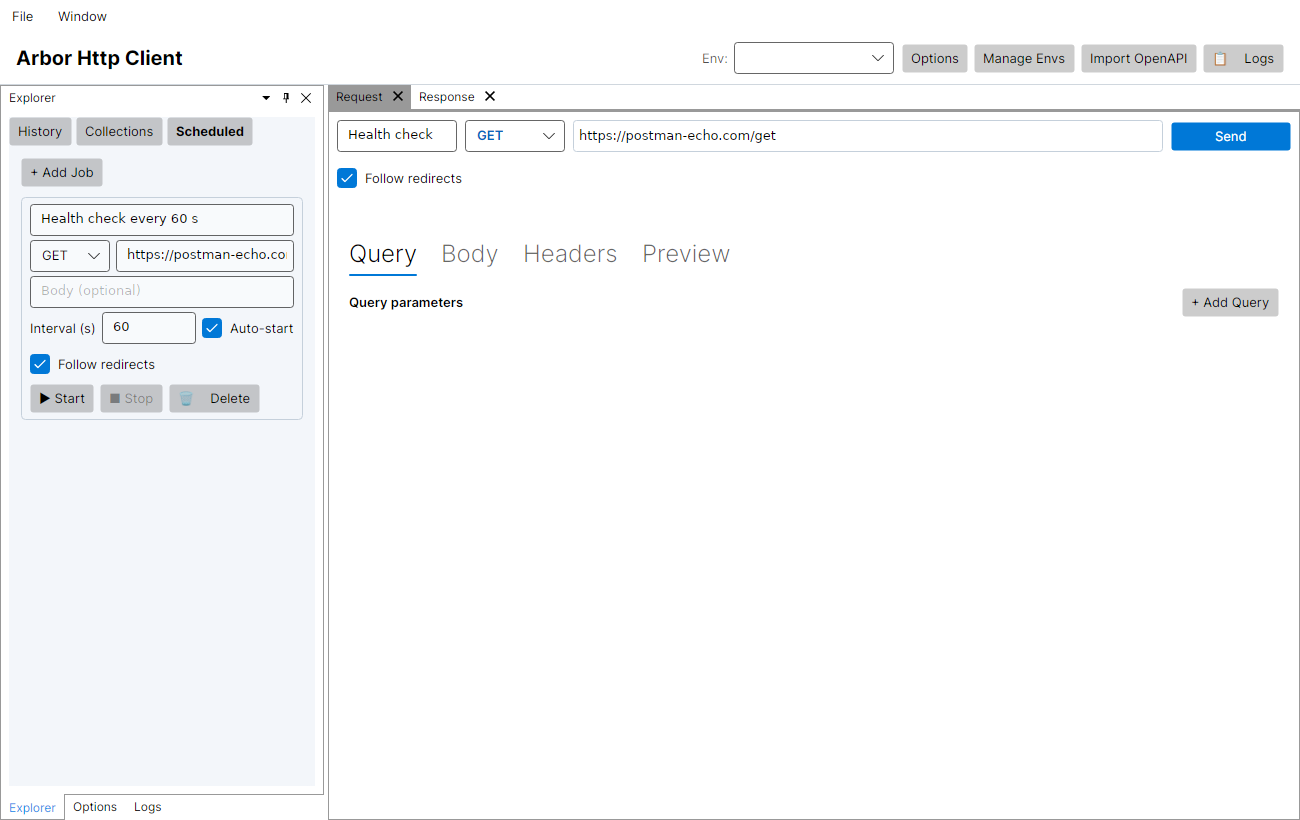
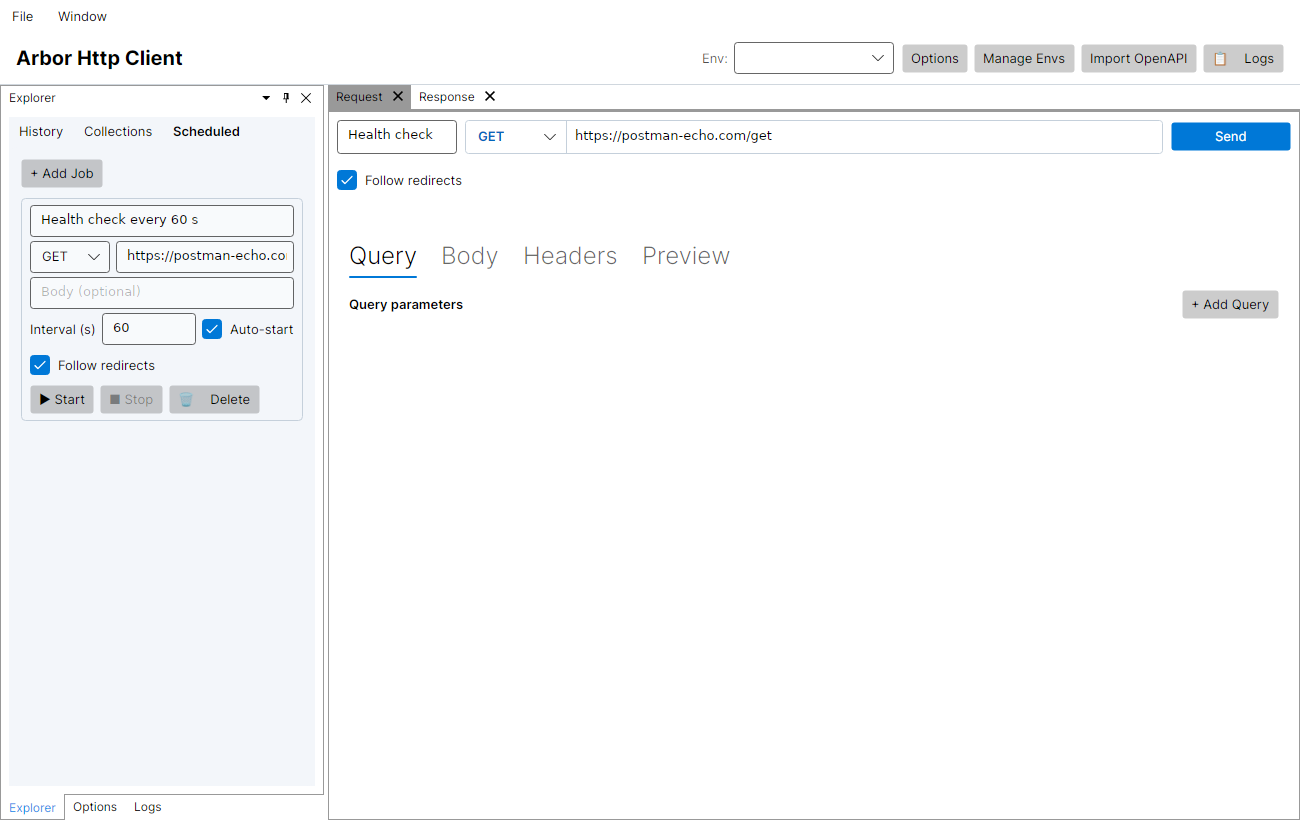
Add unified URL composer, tab-styled left panel, and Copy as cURL
Agent-Logs-Url: https://github.com/niklaslundberg/Arbor.HttpClient/sessions/2c22f1f8-fd90-4e84-97db-15afbf3fa5e5

diff --git a/src/Arbor.HttpClient.Core.Tests/CurlFormatterTests.cs b/src/Arbor.HttpClient.Core.Tests/CurlFormatterTests.cs
@@ -1,0 +1,103 @@
+using Arbor.HttpClient.Core.Models;
+using Arbor.HttpClient.Core.Services;
+using AwesomeAssertions;
+
+namespace Arbor.HttpClient.Core.Tests;
+
+public class CurlFormatterTests
+{
+    [Fact]
+    public void Format_ShouldEmitSimpleGetCurl()
+    {
+        var command = CurlFormatter.Format("GET", "https://example.com/api");
+
+        command.Should().Be("curl -X GET 'https://example.com/api'");
+    }
+
+    [Fact]
+    public void Format_ShouldUppercaseMethod()
+    {
+        var command = CurlFormatter.Format("post", "https://example.com/");
+
+        command.Should().StartWith("curl -X POST ");
+    }
+
+    [Fact]
+    public void Format_ShouldDefaultToGetWhenMethodMissing()
+    {
+        var command = CurlFormatter.Format(" ", "https://example.com/");
+
+        command.Should().StartWith("curl -X GET ");
+    }
+
+    [Fact]
+    public void Format_ShouldIncludeEnabledHeaders()
+    {
+        var headers = new[]
+        {
+            new RequestHeader("Accept", "application/json"),
+            new RequestHeader("X-Disabled", "nope", IsEnabled: false),
+            new RequestHeader("Authorization", "Bearer abc")
+        };
+
+        var command = CurlFormatter.Format("GET", "https://example.com/", null, headers);
+
+        command.Should().Contain("-H 'Accept: application/json'");
+        command.Should().Contain("-H 'Authorization: Bearer abc'");
+        command.Should().NotContain("X-Disabled");
+    }
+
+    [Fact]
+    public void Format_ShouldEscapeSingleQuotesInUrlAndBody()
+    {
+        var command = CurlFormatter.Format(
+            "POST",
+            "https://example.com/search?q=o'brien",
+            "{\"name\":\"O'Brien\"}");
+
+        command.Should().Contain("'https://example.com/search?q=o'\\''brien'");
+        command.Should().Contain("--data-raw '{\"name\":\"O'\\''Brien\"}'");
+    }
+
+    [Fact]
+    public void Format_ShouldIncludeBodyAsDataRaw()
+    {
+        var command = CurlFormatter.Format(
+            "POST",
+            "https://example.com/",
+            "{\"hello\":\"world\"}");
+
+        command.Should().Contain("--data-raw '{\"hello\":\"world\"}'");
+    }
+
+    [Fact]
+    public void Format_ShouldOmitBodyWhenNullOrEmpty()
+    {
+        var command = CurlFormatter.Format("POST", "https://example.com/", string.Empty);
+
+        command.Should().NotContain("--data-raw");
+    }
+
+    [Fact]
+    public void Format_ShouldThrowWhenUrlIsMissing()
+    {
+        Action act = () => CurlFormatter.Format("GET", string.Empty);
+
+        act.Should().Throw<ArgumentException>();
+    }
+
+    [Fact]
+    public void Format_FromSavedRequest_ShouldUseMethodUrlAndBody()
+    {
+        var saved = new SavedRequest(
+            Name: "Echo",
+            Method: "POST",
+            Url: "https://example.com/echo",
+            Body: "payload",
+            CreatedAtUtc: DateTimeOffset.UnixEpoch);
+
+        var command = CurlFormatter.Format(saved);
+
+        command.Should().Be("curl -X POST 'https://example.com/echo' --data-raw 'payload'");
+    }
+}

diff --git a/src/Arbor.HttpClient.Core/Services/CurlFormatter.cs b/src/Arbor.HttpClient.Core/Services/CurlFormatter.cs
@@ -1,0 +1,67 @@
+using System.Globalization;
+using System.Text;
+using Arbor.HttpClient.Core.Models;
+
+namespace Arbor.HttpClient.Core.Services;
+
+/// <summary>
+/// Formats a request (from history, a collection, or the live composer) as a
+/// portable single-line <c>curl</c> command. The output is intentionally
+/// reusable across POSIX shells; values are always wrapped in single quotes and
+/// any embedded single quote is escaped as <c>'\''</c> (the standard shell
+/// idiom).
+/// </summary>
+public static class CurlFormatter
+{
+    public static string Format(
+        string method,
+        string url,
+        string? body = null,
+        IReadOnlyList<RequestHeader>? headers = null)
+    {
+        if (string.IsNullOrWhiteSpace(url))
+        {
+            throw new ArgumentException("URL is required", nameof(url));
+        }
+
+        var effectiveMethod = string.IsNullOrWhiteSpace(method)
+            ? "GET"
+            : method.Trim().ToUpper(CultureInfo.InvariantCulture);
+
+        var builder = new StringBuilder();
+        builder.Append("curl -X ").Append(effectiveMethod).Append(' ').Append(ShellEscape(url));
+
+        if (headers is not null)
+        {
+            foreach (var header in headers)
+            {
+                if (!header.IsEnabled || string.IsNullOrWhiteSpace(header.Name))
+                {
+                    continue;
+                }
+
+                builder.Append(" -H ").Append(ShellEscape($"{header.Name}: {header.Value ?? string.Empty}"));
+            }
+        }
+
+        if (!string.IsNullOrEmpty(body))
+        {
+            builder.Append(" --data-raw ").Append(ShellEscape(body));
+        }
+
+        return builder.ToString();
+    }
+
+    public static string Format(SavedRequest request, IReadOnlyList<RequestHeader>? headers = null)
+    {
+        ArgumentNullException.ThrowIfNull(request);
+        return Format(request.Method, request.Url, request.Body, headers);
+    }
+
+    private static string ShellEscape(string value)
+    {
+        // POSIX single-quoted strings: every character is literal except single
+        // quote itself, which must be written as '\'' (close, escape, reopen).
+        return "'" + value.Replace("'", "'\\''") + "'";
+    }
+}

diff --git a/src/Arbor.HttpClient.Desktop/ViewModels/MainWindowViewModel.cs b/src/Arbor.HttpClient.Desktop/ViewModels/MainWindowViewModel.cs
@@ -19,6 +19,7 @@ using Arbor.HttpClient.Core.Services;
 using Arbor.HttpClient.Desktop.Models;
 using Arbor.HttpClient.Desktop.Services;
 using Avalonia;
+using Avalonia.Input.Platform;
 using Avalonia.Media;
 using Avalonia.Platform.Storage;
 using Avalonia.Styling;
@@ -68,6 +69,9 @@ public partial class MainWindowViewModel : ViewModelBase, IDisposable
 
     // Needed for file picker – set by the view
     public IStorageProvider? StorageProvider { get; set; }
+
+    // Needed for clipboard (e.g. "Copy as cURL" on history items) – set by the view
+    public global::Avalonia.Input.Platform.IClipboard? Clipboard { get; set; }
 
     /// <summary>Dock layout root; bound to DockControl.Layout in MainWindow.</summary>
     public IRootDock? Layout { get; private set; }
@@ -1622,6 +1626,24 @@ public partial class MainWindowViewModel : ViewModelBase, IDisposable
 
         await File.WriteAllBytesAsync(file.Path.LocalPath, _lastResponseBodyBytes);
         OpenWithShell(file.Path.LocalPath);
+    }
+
+    /// <summary>
+    /// Copies the given history item to the clipboard formatted as a single-line
+    /// <c>curl</c> command. Matches the "Copy as cURL" action available in
+    /// Hoppscotch, Insomnia, and the browser devtools network panel.
+    /// No-op when the clipboard or request is unavailable.
+    /// </summary>
+    [RelayCommand]
+    private async Task CopyHistoryItemAsCurlAsync(SavedRequest? request)
+    {
+        if (request is null || Clipboard is null)
+        {
+            return;
+        }
+
+        var command = CurlFormatter.Format(request);
+        await Clipboard.SetTextAsync(command);
     }
 
     public void Dispose()

diff --git a/src/Arbor.HttpClient.Desktop/Views/MainWindow.axaml.cs b/src/Arbor.HttpClient.Desktop/Views/MainWindow.axaml.cs
@@ -16,6 +16,7 @@ public partial class MainWindow : Avalonia.Controls.Window
         if (DataContext is MainWindowViewModel viewModel)
         {
             viewModel.StorageProvider = StorageProvider;
+            viewModel.Clipboard = Clipboard;
             viewModel.ExitApplicationAction = Close;
         }
     }
